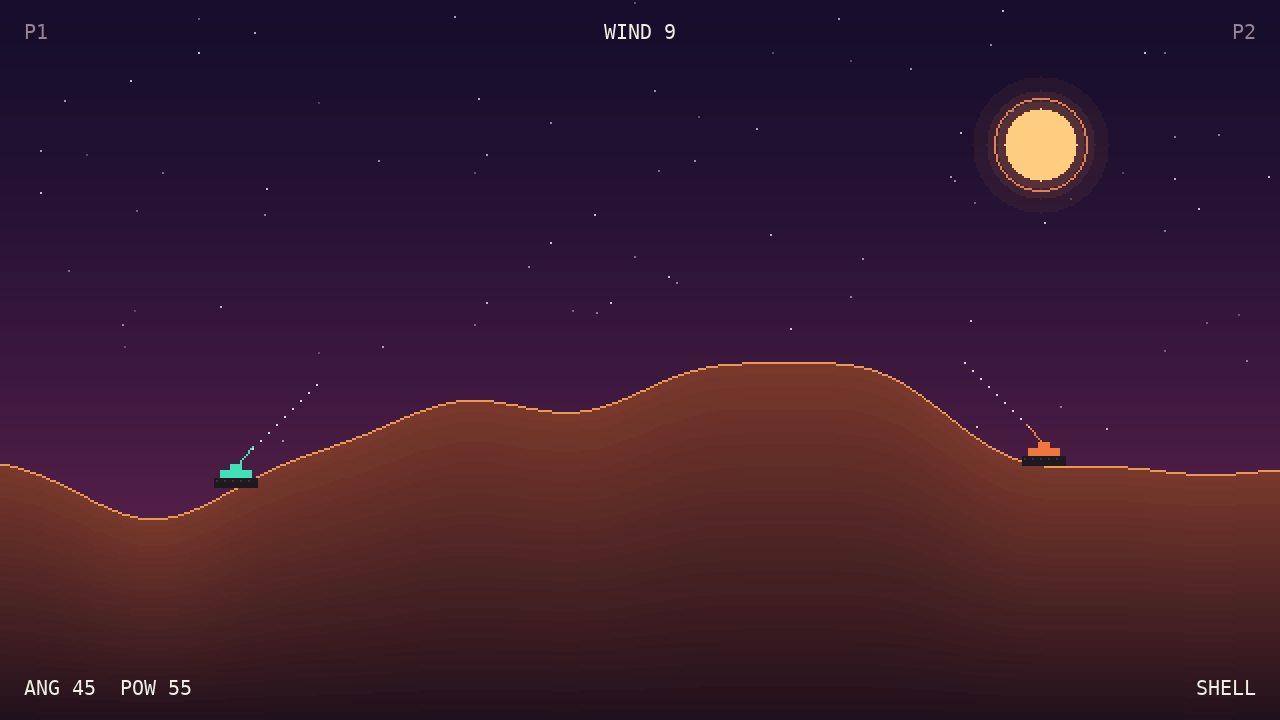
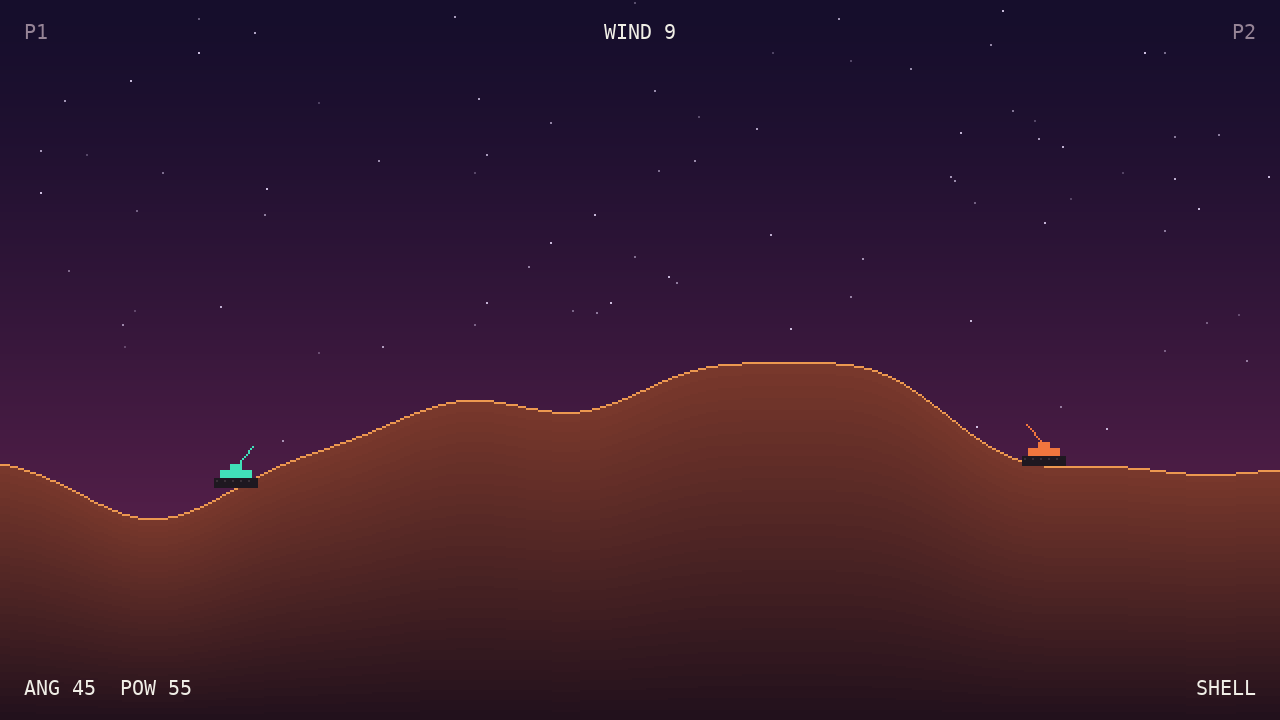
refactor: remove DDA and circle helpers so Task 1 writes them

Changed region(s): [[0.75, 0.1222, 0.875, 0.275]]

diff --git a/algo/circles.py b/algo/circles.py
@@ -1,58 +1,12 @@
 """Chapter 3 — circles and ellipses.
 
-FALLBACK ONLY. These are the Direct (Cartesian) versions from the book. Task 1
-replaces them with the Midpoint (Bresenham) algorithm, adds the ellipse, and
-keeps these as the slow reference for the Algorithms Lab.
+Empty on purpose. Task 1 writes every function in this file, from the book:
 
-Why a fallback at all: the rule is that no task is ever blocked. If Midpoint
-is late, the game still draws circles.
+    circle_midpoint(cv, cx, cy, r, color)            # outline, 8-way symmetry
+    disc_midpoint(cv, cx, cy, r, color)              # filled, for the moon
+    ellipse_midpoint(cv, cx, cy, rx, ry, color)      # tank shadow, HUD
+    circle_polar(cv, cx, cy, r, color)               # Lab comparison
+
+Until then Slice 0 has no moon and no explosion rings. That is the point:
+those pixels are Task 1's job, not the scaffold's.
 """
-
-import math
-
-
-def _plot8(cv, cx, cy, x, y, color):
-    cv.set_pixel(cx + x, cy + y, color)
-    cv.set_pixel(cx - x, cy + y, color)
-    cv.set_pixel(cx + x, cy - y, color)
-    cv.set_pixel(cx - x, cy - y, color)
-    cv.set_pixel(cx + y, cy + x, color)
-    cv.set_pixel(cx - y, cy + x, color)
-    cv.set_pixel(cx + y, cy - x, color)
-    cv.set_pixel(cx - y, cy - x, color)
-
-
-def circle_direct(cv, cx, cy, r, color):
-    """Outline circle by the Cartesian equation, 8-way symmetry."""
-    r = int(r)
-    if r < 1:
-        cv.set_pixel(cx, cy, color)
-        return
-    r2 = r * r
-    for x in range(r + 1):
-        y = int(math.sqrt(max(0, r2 - x * x)) + 0.5)
-        _plot8(cv, int(cx), int(cy), x, y, color)
-
-
-def disc_spans(cv, cx, cy, r, color):
-    """Filled disc using one horizontal span per row."""
-    r = int(r)
-    cx = int(cx)
-    cy = int(cy)
-    r2 = r * r
-    for dy in range(-r, r + 1):
-        dx = int(math.sqrt(max(0, r2 - dy * dy)))
-        cv.hline(cx - dx, cx + dx, cy + dy, color)
-
-
-def disc_blend(cv, cx, cy, r, color, alpha):
-    """Filled disc drawn with transparency — glow, halos, explosions fading."""
-    r = int(r)
-    cx = int(cx)
-    cy = int(cy)
-    r2 = r * r
-    for dy in range(-r, r + 1):
-        dx = int(math.sqrt(max(0, r2 - dy * dy)))
-        y = cy + dy
-        for x in range(cx - dx, cx + dx + 1):
-            cv.blend_pixel(x, y, color, alpha)

diff --git a/main.py b/main.py
@@ -6,10 +6,14 @@ This is a smoke test for the architecture, not the game yet:
 
 It proves four things on day one:
   1. the Canvas is the only thing writing pixels,
-  2. the static background (sky, stars, moon, terrain) can be cached and
+  2. the static background (sky, stars, terrain) can be cached and
      restored in one copy, so per-frame cost stays tiny,
   3. 640x360 scales x2 windowed and x3 fullscreen with no blur,
   4. text is the single agreed exception (pygame.font, at display size).
+
+There is no moon and no aim guide yet: those are circles and dotted lines,
+and Task 1 writes every circle and every DDA line in this project. Slice 0
+deliberately does not ship them.
 
 Owner: Task 3 (game core + integration). Task 1 and Task 2 replace the
 drawing calls inside it as their modules land.
@@ -27,8 +31,7 @@ import sys
 import pygame
 
 import config as C
-from algo.circles import circle_direct, disc_blend, disc_spans
-from algo.lines import line_bresenham, line_dda_dotted
+from algo.lines import line_bresenham
 from core.canvas import Canvas
 from core.display import Display
 from core.util import clamp, lerp_color
@@ -50,17 +53,9 @@ def draw_stars(cv, count=90, seed=3):
         cv.blend_pixel(x, y, C.STAR, rng.randrange(60, 220))
 
 
-def draw_moon(cv, cx, cy, r):
-    for rr, alpha in ((r + 16, 16), (r + 9, 24), (r + 4, 38)):
-        disc_blend(cv, cx, cy, rr, C.MOON_RING, alpha)
-    disc_spans(cv, cx, cy, r, C.MOON)
-    circle_direct(cv, cx, cy, r + 5, C.MOON_RING)
-
-
 def build_sky(cv):
     draw_sky(cv)
     draw_stars(cv)
-    draw_moon(cv, 520, 72, 18)
 
 
 def rebuild_background(cv, terrain, sky):
@@ -97,19 +92,6 @@ def draw_world(cv, background, terrain, tanks):
         x = tank["x"]
         y = terrain.height_at(x)
         draw_tank(cv, x, y, tank["angle"], tank["color"])
-
-        rad = math.radians(tank["angle"])
-        mx = x + math.cos(rad) * 12
-        my = y - 12 - math.sin(rad) * 12
-        line_dda_dotted(
-            cv,
-            mx,
-            my,
-            mx + math.cos(rad) * 46,
-            my - math.sin(rad) * 46,
-            C.AIM,
-            gap=4,
-        )
 
 
 def hud(tanks, power):

diff --git a/algo/lines.py b/algo/lines.py
@@ -1,11 +1,13 @@
 """Chapter 2 — line drawing.
 
-The scaffold ships two of them because Slice 0 needs them:
-  * line_bresenham  — every straight edge in the game,
-  * line_dda_dotted — the dotted aiming guide.
+Only Bresenham ships here, because the tanks need *some* line to be visible on
+day one.
 
-Task 1 still owns this file: it adds the Direct method, the plain DDA, the
-performance table for the Algorithms Lab, and the unit tests.
+Task 1 owns this file and writes the rest — from the book, not from memory:
+  line_direct(cv, x0, y0, x1, y1, color)             # naive y = mx + b
+  line_dda(cv, x0, y0, x1, y1, color)                # DDA
+  line_dda_dotted(cv, x0, y0, x1, y1, color, gap=4)  # dotted aim guide
+plus their tests and their rows in the benchmark table.
 """
 
 
@@ -33,26 +35,3 @@ def line_bresenham(cv, x0, y0, x1, y1, color):
         if e2 <= dx:
             err += dx
             y0 += sy
-
-
-def line_dda_dotted(cv, x0, y0, x1, y1, color, gap=4):
-    """DDA stepped on the major axis, plotting one pixel every `gap` steps (Ch2).
-
-    Used for the aim guide and the trajectory preview.
-    """
-    dx = int(x1) - int(x0)
-    dy = int(y1) - int(y0)
-    steps = max(abs(dx), abs(dy))
-    if steps == 0:
-        cv.set_pixel(x0, y0, color)
-        return
-
-    xinc = dx / steps
-    yinc = dy / steps
-    x = float(x0)
-    y = float(y0)
-    for i in range(steps + 1):
-        if i % gap == 0:
-            cv.set_pixel(round(x), round(y), color)
-        x += xinc
-        y += yinc

diff --git a/tests/test_lines.py b/tests/test_lines.py
@@ -1,8 +1,9 @@
-"""Chapter 2 line tests. Task 1 extends these as it adds Direct and plain DDA."""
+"""Chapter 2 line tests. Task 1 extends these as it adds Direct, DDA and the
+dotted DDA variant."""
 
 import unittest
 
-from algo.lines import line_bresenham, line_dda_dotted
+from algo.lines import line_bresenham
 
 
 class Recorder:
@@ -49,18 +50,6 @@ class BresenhamTest(unittest.TestCase):
     def test_horizontal_and_vertical(self):
         self.assertEqual(draw(0, 5, 4, 5), [(0, 5), (1, 5), (2, 5), (3, 5), (4, 5)])
         self.assertEqual(draw(2, 0, 2, 3), [(2, 0), (2, 1), (2, 2), (2, 3)])
-
-
-class DottedDdaTest(unittest.TestCase):
-    def test_dots_are_dotted(self):
-        cv = Recorder()
-        line_dda_dotted(cv, 0, 0, 40, 0, (255, 255, 255), gap=4)
-        self.assertEqual(len(cv.points), 11)  # 41 steps, every 4th
-
-    def test_dots_start_at_the_muzzle(self):
-        cv = Recorder()
-        line_dda_dotted(cv, 7, 3, 30, 20, (255, 255, 255), gap=4)
-        self.assertEqual(cv.points[0], (7, 3))
 
 
 if __name__ == "__main__":

diff --git a/docs/TASKS.md b/docs/TASKS.md
@@ -24,7 +24,7 @@ python3 -m venv .venv && .venv/bin/pip install -r requirements.txt
 ### أول 30 دقيقة
 1. شغّل `main.py`، بعدين `main.py --shot out/x.png`.
 2. اقرأ `core/canvas.py` — لاحظ إن `snapshot/restore` هم سر السرعة، وإن `set_pixel` بيتجاهل بره الشاشة (ده Point Clipping من Ch6).
-3. شغّل التستات.
+3. شغّل التستات — هتلاقي Bresenham بس. الباقي عليك.
 
 ### المهام
 
@@ -36,8 +36,10 @@ python3 -m venv .venv && .venv/bin/pip install -r requirements.txt
 `steps = max(|dx|, |dy|)`، بعدين `xinc = dx/steps`, `yinc = dy/steps`، و `round` في كل خطوة.
 لازم يطلع نفس عدد بكسلات Bresenham تقريبًا — ده اللي هتقارن بيه في الـ Lab.
 
-**1.3 — Bresenham** (موجود)
-راجع كل الـ octants، واتأكد إن عدد البكسلات = `max(dx,dy)+1`، وإن عكس الاتجاه بيدي نفس البكسلات.
+**1.3 — Bresenham** (موجود كمرجع)
+موجودة في الريبو عشان الدبابات تبان من يوم 1 — **امسحوها واكتبوها من الكتاب بنفسكم**،
+بعدين قارنوا نتيجتكم بالنسخة القديمة. لازم تغطي كل الـ octants، وعدد البكسلات =
+`max(dx,dy)+1`، وعكس الاتجاه بيدي نفس البكسلات.
 
 **1.4 — Midpoint Circle** (`circle_midpoint`)
 `d = 1 - r`، بعدين `d += 2x+3` أو `d += 2(x-y)+5`، مع `plot8`.
@@ -90,7 +92,8 @@ task1: ellipse + benchmark table
 `pygame.draw` / `set_at` / أي رسم جاهز · float في Bresenham · تعديل `world/` أو `main.py`.
 
 ### لو اتأخرت
-`circle_direct` و `disc_spans` موجودين وشغالين. سلّم Midpoint بعديهم ومش هتوقف حد.
+مفيش fallback للدايرة — والقمر وحلقات الانفجار وظل الدبابة كلهم واقفين عليها. لو اتأخرت:
+سلّم `circle_midpoint` الأول قبل الـ ellipse، وخلي Task 3 يرسم الانفجار كمربع مؤقت (rect) لحد ما توصل.
 
 ---
 
@@ -215,7 +218,7 @@ fallback التعبئة بالأعمدة (شكل شبه كامل). Hermite مش 
 
 **3.5 — التصويب + المعاينة**
 الزاوية 0..180 (0 = يمين، 90 = فوق)، القوة 10..100.
-**المعاينة المنقّطة:** شغّل نفس الفيزياء 60 خطوة من غير تصادم، وخد النقاط، وارسم بينها `line_dda_dotted`. ده القوس اللي في الصور — مش خط مستقيم.
+**المعاينة المنقّطة:** شغّل نفس الفيزياء 60 خطوة من غير تصادم، وخد النقاط، وارسم بينها `line_dda_dotted` (بتاعة Task 1). ده القوس اللي في الصور — مش خط مستقيم.
 
 **3.6 — الفيزياء**
 ```python

diff --git a/docs/KICKOFF_MESSAGE.md b/docs/KICKOFF_MESSAGE.md
@@ -1,0 +1,54 @@
+# رسالة الـ kickoff (واتساب / تيليجرام)
+
+> انسخ النص اللي تحت، وعدّل مكان `[اليوم والوقت والمكان]`.
+
+---
+
+🎮 *مشروع Computer Graphics — Peaceful War*
+
+لعبة دبابات دور ورا دور: تظبط الزاوية والقوة، تطلق، القذيفة تنفجر وتحفر الأرض وتنقص HP.
+والشرط الأساسي: *كل بكسل على الشاشة مكتوب بخوارزميات من الكتاب* — ممنوع أي دالة رسم جاهزة.
+
+*١) شغّلوا المشروع*
+```
+git clone https://github.com/zexorion/peaceful_war.git
+cd peaceful_war
+python3 -m venv .venv
+.venv/bin/pip install -r requirements.txt
+.venv/bin/python main.py
+```
+ويندوز: آخر سطرين يبقوا
+```
+.venv\Scripts\pip install -r requirements.txt
+.venv\Scripts\python main.py
+```
+
+*٢) اقرأوا بالترتيب*
+1. `README.md` — التشغيل والهيكل
+2. `docs/CONTRACT.md` — العقد التقني (إلزامي قبل أي كود)
+3. `PLAN.md` — القرارات والجدول
+
+*٣) اللي هتشوفوه إيه*
+ماكيت (Slice 0) — الشاشة والرسم شغالين، بس مفيش لعب لسه.
+جاهز: الورقة والقلم + خط واحد (Bresenham) + تضاريس مؤقتة + HUD.
+ناقص: الدواير (القمر/الانفجار) + DDA + الفيزياء + الأدوار + الحفر + الشاشات.
+
+*٤) الشغل ٤ تاسكات × ٢*
+▸ Task 1 — أدوات الرسم: Canvas + الخطوط + الدواير
+▸ Task 2 — الأرض: المنحنيات + التلوين + الحفر
+▸ Task 3 — اللعبة: الأدوار + الفيزياء + الانفجار + الدمج
+▸ Task 4 — الشكل والتقرير: الشاشات + الـ HUD + التقرير + العرض
+
+*٥) قواعد*
+- كل تاسك ليه فولدر — محدش يعدّل فولدر حد تاني.
+- ممنوع `pygame.draw` أو أي رسم جاهز.
+- مفيش شغل على `main` — كل تاسك على branch.
+- أي حد واقف أكتر من ساعتين يسأل هنا.
+- التوزيع في الـ kickoff (٣٠ دقيقة)، مش دلوقتي.
+
+*٦) الاجتماع*
+[اليوم والوقت والمكان]
+هنشغّل اللعبة قدامكم، ونوزّع التاسكات، ونبدأ.
+
+الكتاب: الفصول 2 · 3 · 4 · 5
+الريبو: https://github.com/zexorion/peaceful_war

diff --git a/docs/CONTRACT.md b/docs/CONTRACT.md
@@ -43,16 +43,19 @@ cv.restore(snap)                        # one C-level copy
 
 ```python
 # algo/lines.py — Ch2
-line_bresenham(cv, x0, y0, x1, y1, color)
-line_dda_dotted(cv, x0, y0, x1, y1, color, gap=4)
-# يضيف: line_direct(cv, ..., color) · line_dda(cv, ..., color)
+line_bresenham(cv, x0, y0, x1, y1, color)   # الموجود الوحيد
+# يضيف: line_direct(...) · line_dda(...) · line_dda_dotted(..., gap=4)
 
 # algo/circles.py — Ch3
-circle_direct(cv, cx, cy, r, color)     # fallback
-disc_spans(cv, cx, cy, r, color)
-disc_blend(cv, cx, cy, r, color, alpha)
-# يضيف: circle_midpoint(...) · ellipse_midpoint(cv, cx, cy, rx, ry, color) · circle_polar(...)
+# فاضي عمدًا. Task 1 يكتب من الكتاب:
+# circle_midpoint(cv, cx, cy, r, color)
+# disc_midpoint(cv, cx, cy, r, color)
+# ellipse_midpoint(cv, cx, cy, rx, ry, color)
+# circle_polar(cv, cx, cy, r, color)
 ```
+
+> **ليه فاضي؟** القمر، حلقات الانفجار، وظل الدبابة كلهم دواير. لو سيبنا نسخة جاهزة
+> هتتنسخ وهتبقى مش شغل التيم. فـ Slice 0 مافيهوش قمر ولا انفجار — بالتصميم.
 
 ### Task 2
 

diff --git a/README.md b/README.md
@@ -19,7 +19,7 @@ python3 -m venv .venv
 - لقطة من غير نافذة: `.venv/bin/python main.py --shot out/slice0.png`
 - الاختبارات: `.venv/bin/python -m unittest discover -s tests -t .`
 
-> **الوضع الحالي: Slice 0 (هيكل شغال).** النافذة + Canvas + تضاريس + دبابتين + خط تصويب + HUD.
+> **الوضع الحالي: Slice 0 (هيكل شغال).** النافذة + Canvas + تضاريس + دبابتين + HUD.
 > مش اللعبة بعد — دي نقطة البداية اللي كل تاسك هيبني عليها. شوف [PLAN.md](PLAN.md).
 
 ---
@@ -33,8 +33,8 @@ core/
   display.py         pygame: النافذة، التكبير، الفولسكرين، النص
   util.py            clamp / lerp / rotate
 algo/
-  lines.py           Ch2 — Bresenham + DDA منقّط
-  circles.py         Ch3 — Direct (fallback) + disc
+  lines.py           Ch2 — Bresenham فقط (Direct + DDA + المنقّط: Task 1)
+  circles.py         Ch3 — فاضي عمدًا: Task 1 بيكتبه كله
   curves.py          Ch4 — يبدأ فاضي (Task 2)
   fill.py            Ch5 — يبدأ فاضي (Task 2)
 world/
